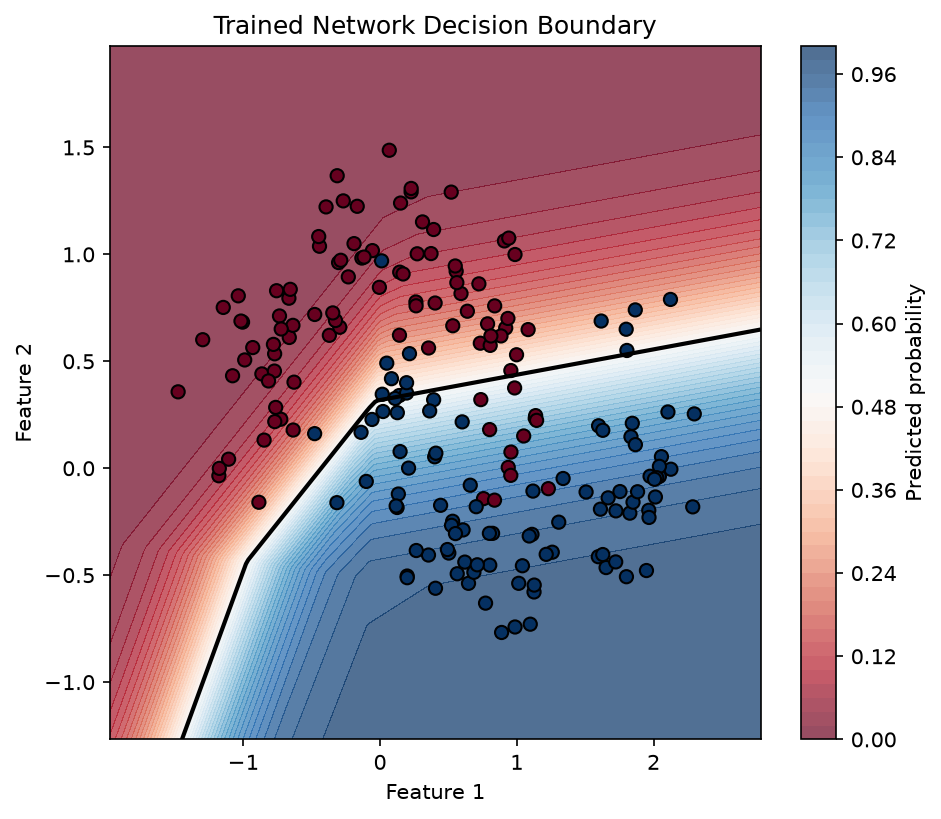
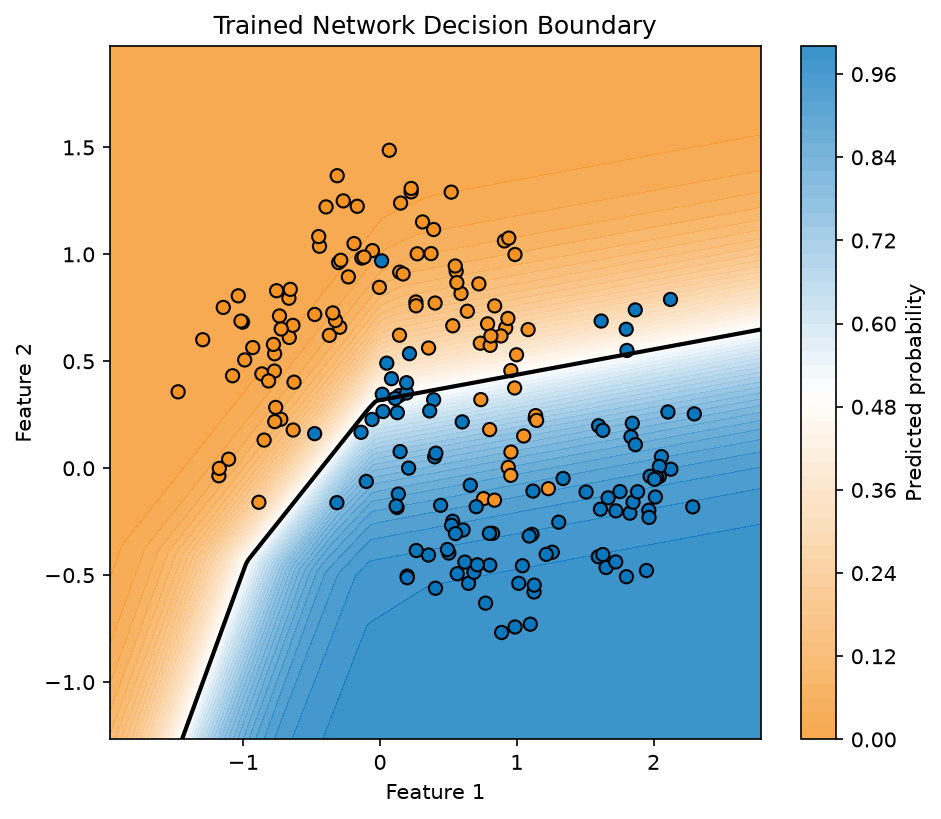
Update decision boundary plot to use TensorFlow Playground color scheme

diff --git a/engine/visualize.py b/engine/visualize.py
@@ -14,14 +14,6 @@ def plot_decision_boundary(net, X, y, title="Decision Boundary", save_path=None)
     """
     Plot the decision boundary learned by a trained network on a 2D dataset,
     using a TensorFlow Playground style orange/blue color scheme.
-
-    Parameters:
-        net: a trained SimpleNetwork instance with a forward(X) method
-        X: input data of shape (n_samples, 2)
-        y: true labels of shape (n_samples,)
-        title: plot title
-        save_path: if provided, saves the figure to this path instead of
-                    only displaying it
     """
     x_min, x_max = X[:, 0].min() - 0.5, X[:, 0].max() + 0.5
     y_min, y_max = X[:, 1].min() - 0.5, X[:, 1].max() + 0.5
@@ -33,3 +25,28 @@ def plot_decision_boundary(net, X, y, title="Decision Boundary", save_path=None)
     )
 
     grid_points = np.c_[xx.ravel(), yy.ravel()]
+    predictions = net.forward(grid_points)
+    predictions = predictions.reshape(xx.shape)
+
+    fig, ax = plt.subplots(figsize=(7, 6))
+
+    contour = ax.contourf(
+        xx, yy, predictions, levels=50, cmap=TF_PLAYGROUND_CMAP, alpha=0.8
+    )
+    ax.contour(xx, yy, predictions, levels=[0.5], colors="black", linewidths=2)
+
+    scatter = ax.scatter(
+        X[:, 0], X[:, 1], c=y, cmap=TF_PLAYGROUND_CMAP,
+        edgecolors="black", s=40, vmin=0, vmax=1
+    )
+
+    ax.set_title(title)
+    ax.set_xlabel("Feature 1")
+    ax.set_ylabel("Feature 2")
+    fig.colorbar(contour, ax=ax, label="Predicted probability")
+
+    if save_path:
+        fig.savefig(save_path, dpi=150, bbox_inches="tight")
+        print(f"Saved plot to {save_path}")
+
+    return fig
